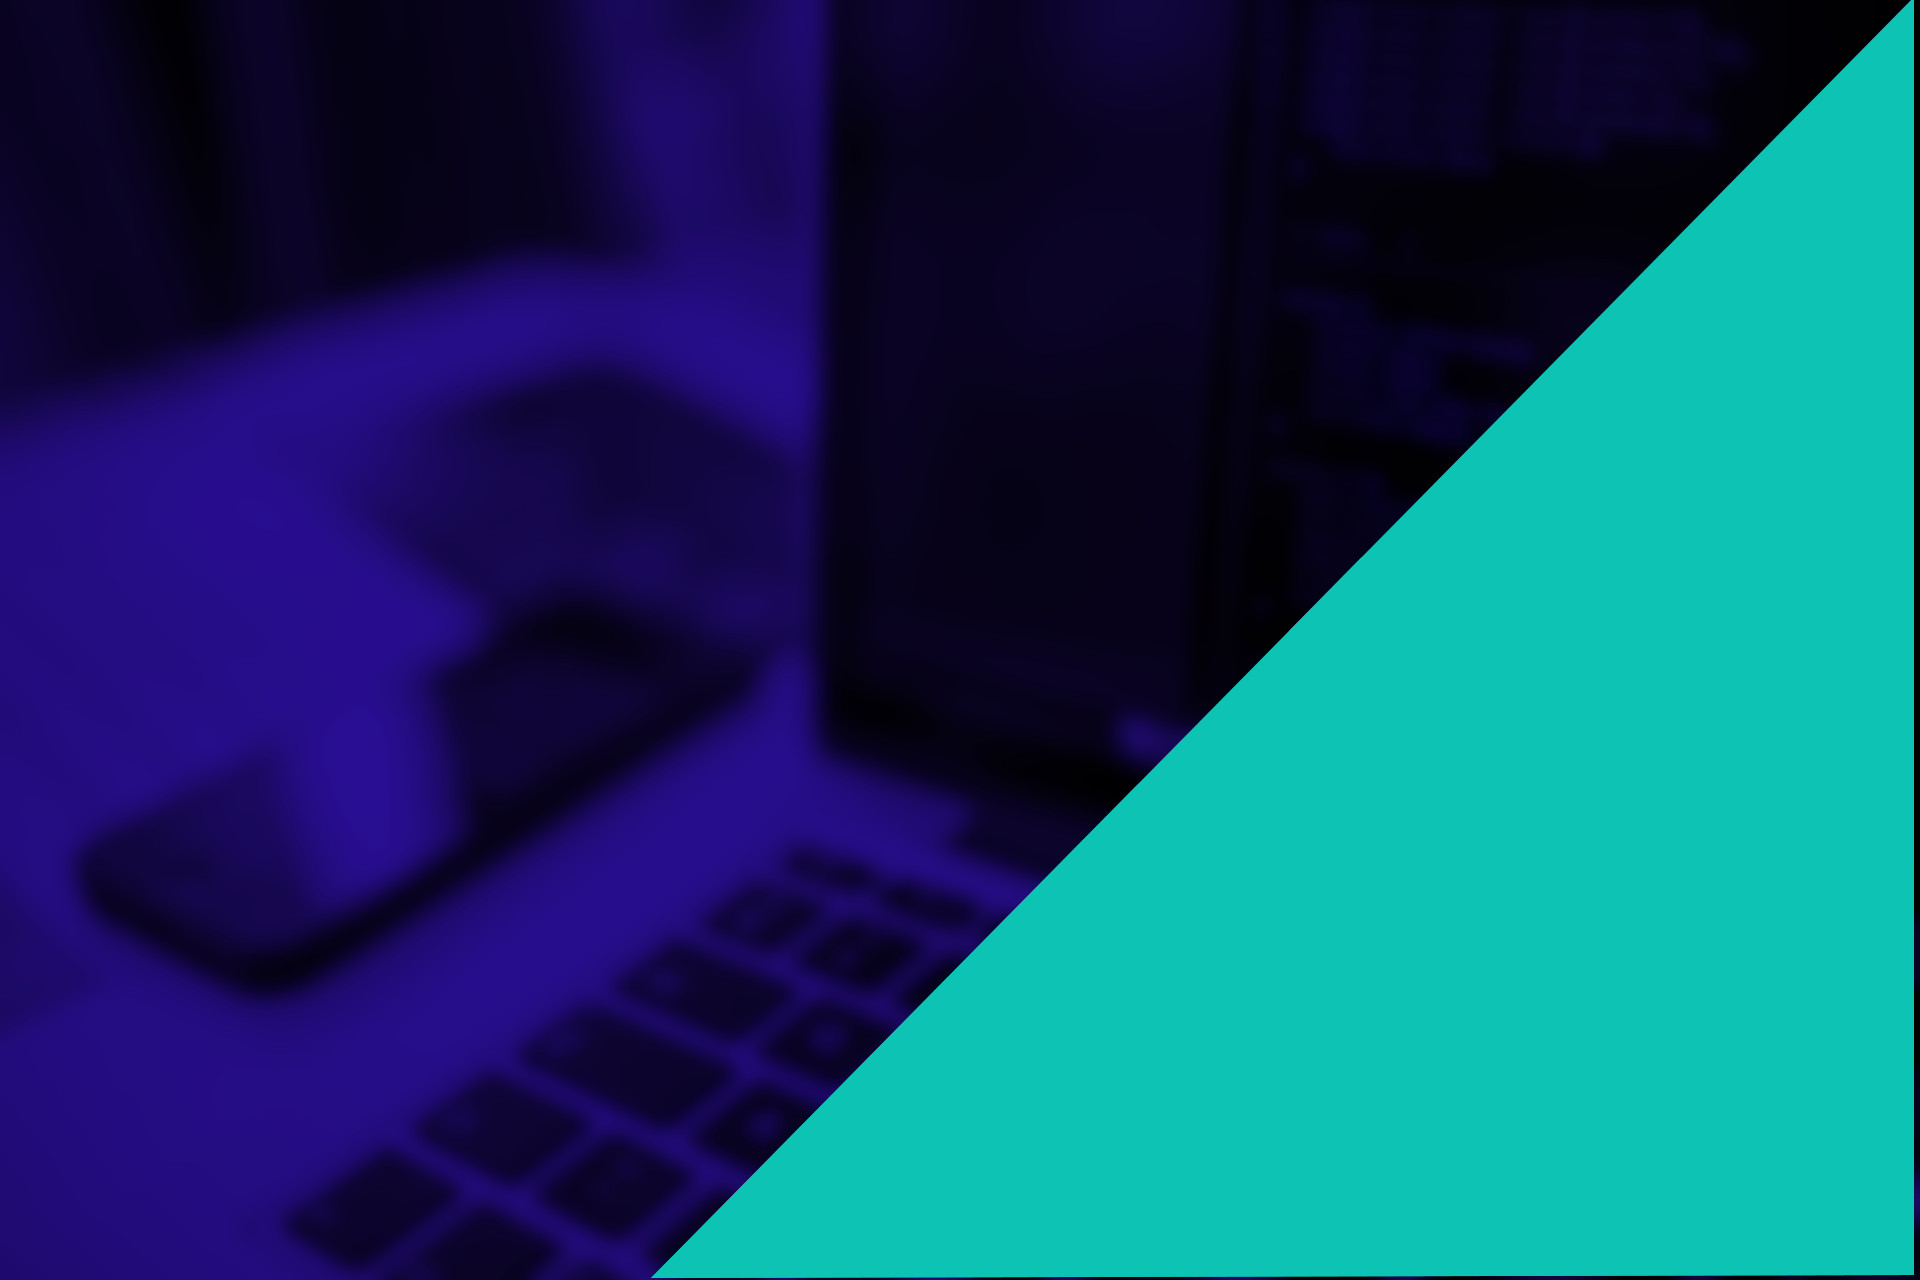
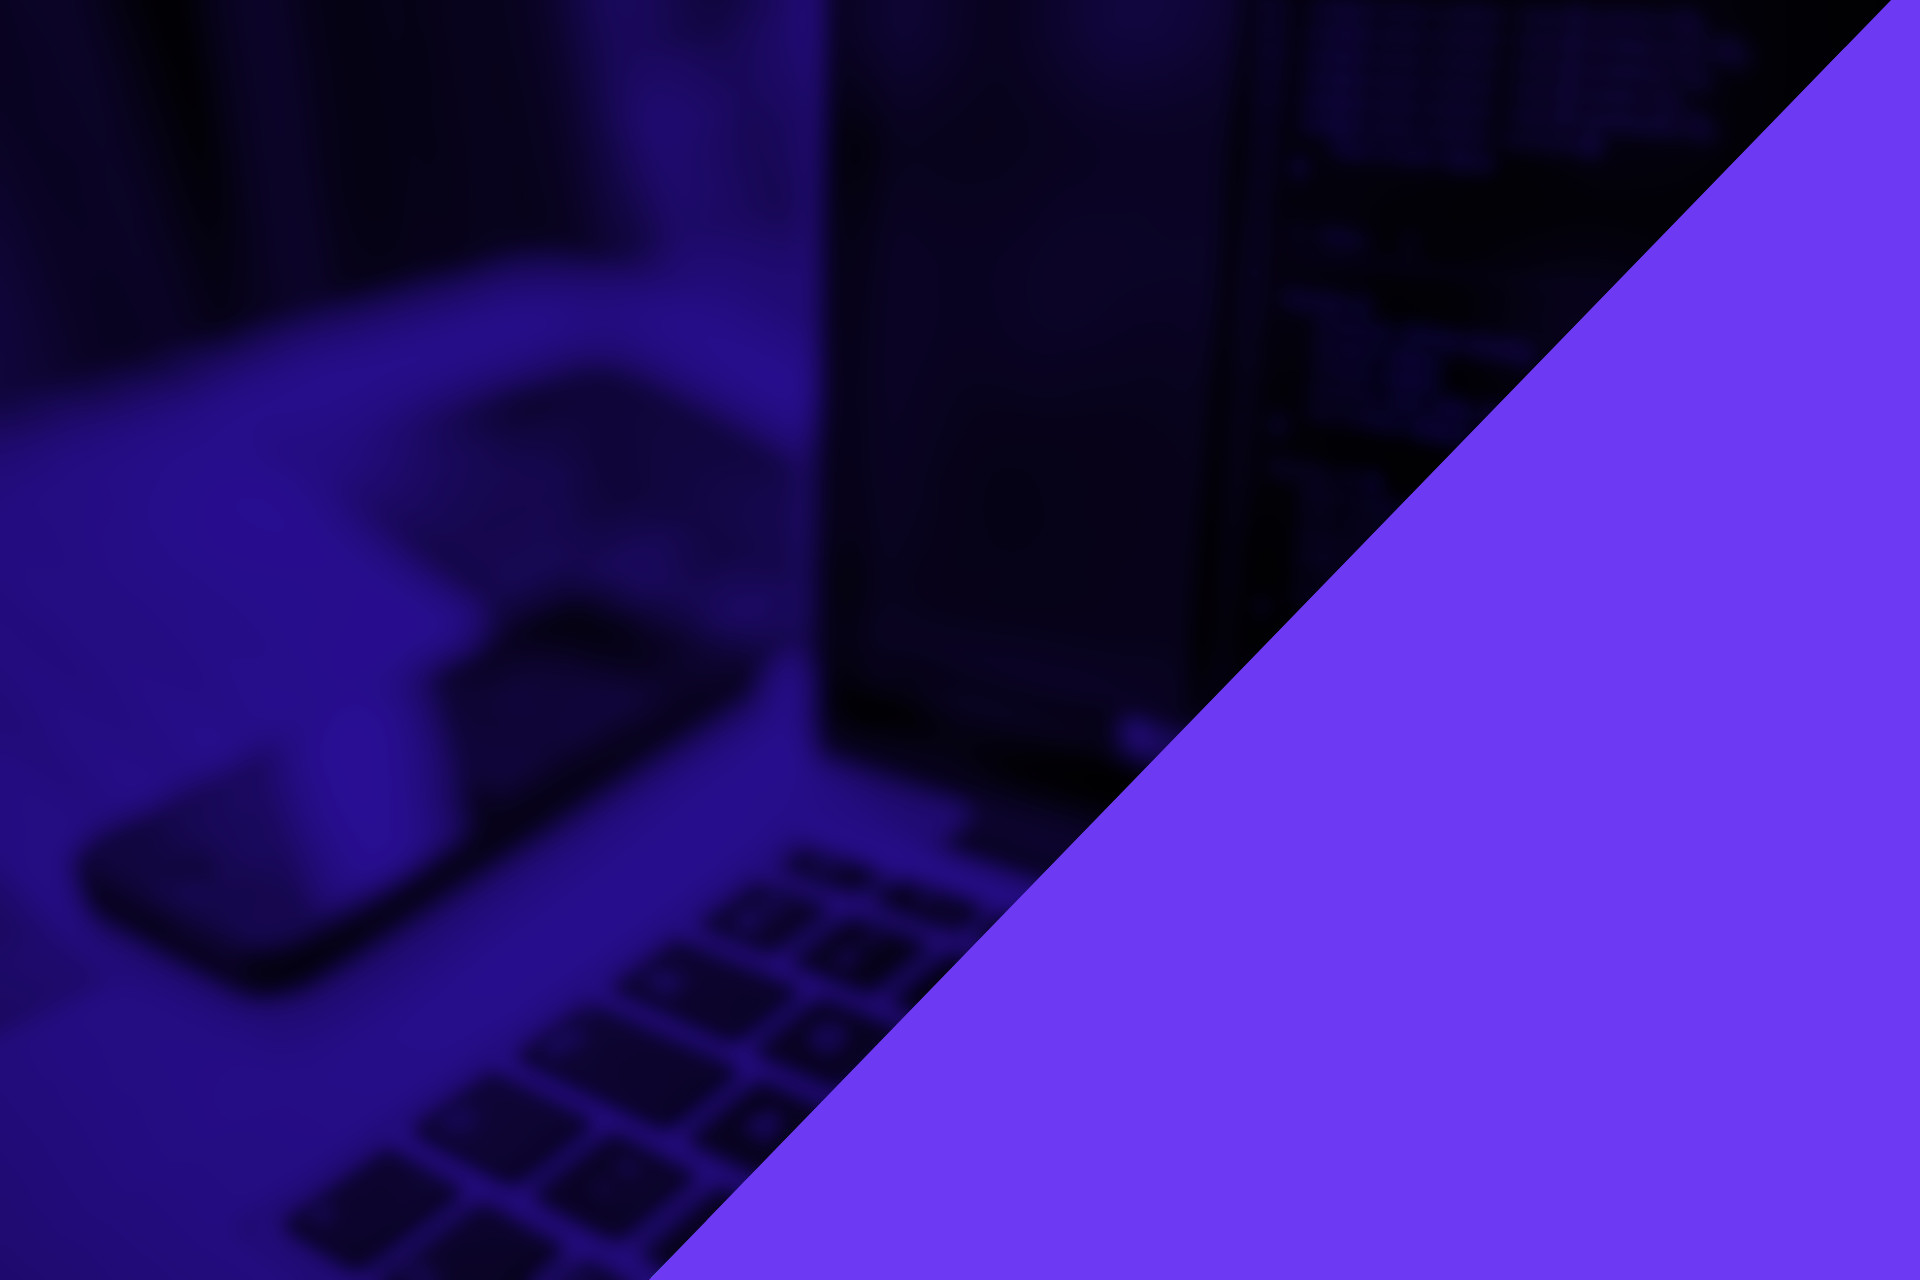
subindo

diff --git a/index.html b/index.html
@@ -8,7 +8,8 @@
     <link rel="stylesheet" href="./css/aos.css">
     <title>LeoBussi</title>
 </head>
-<body>  
+<body>      
+    <div class="content">
             <section class="section-top"> 
                 <div class="logo">
                     <img src="./img/logo.png" alt="">
@@ -26,7 +27,7 @@
                         <p>I am a Big Data student in Agribusiness by Fatec Pompéia,<br>
                             I am a native of the city of Pompeia located in the state  <br>
                                 of São Paulo in Brazil. currently I am 22 years old, I  <br>
-                                dedicate most  of my time to study.
+                                dedicate most  of my time to study. <a href="#">More about me</a>
                         </p>
                     </div>
                 </div>
@@ -48,6 +49,12 @@
                     </div>
                 </div>
             </section> 
+    </div>  
+    <div class="box-linguagem">
+        <h2 class="title" >Technologies</h2>
+
+        quando der tempo eu termino
+    </div>      
 
         <script src="https://unpkg.com/aos@next/dist/aos.js"></script>
         <script src="https://code.jquery.com/jquery-3.5.1.js"></script>

diff --git a/css/styles.css b/css/styles.css
@@ -15,8 +15,11 @@ body{
     background-repeat: no-repeat;
     -webkit-font-smoothing: antialiased;
     color: #fff;
-    background-color: rgb(5, 4, 10);
+    background-color: #0dc3b4;
     height: 100vh;
+    background-attachment: fixed;
+}
+.content{
     display: flex;
     align-items: center;
     justify-content: center;
@@ -57,6 +60,7 @@ body{
                 0px 3px 1px -2px rgba(0, 0, 0, 0.12), 
                 0px 1px 5px 0px rgba(0, 0, 0, 0.2);
     margin-bottom: 50px;
+
 }
 
 .conteiner .links {
@@ -109,6 +113,30 @@ body{
     font-size: 14px;
     
 }
+.about p a{
+    color: #0dc3b4;  
+}
+.about p a:hover{
+   color: blueviolet;
+}
+.box-linguagem{
+    width: 100%;
+    margin-top: 70px;
+    height: 20vh;
+    background-color: #6d39f2;
+}
+.box-linguagem .title{
+    text-align: center;
+    padding: 30px 0;
+}
+
+
+
+
+
+
+
+
 @media screen and (max-width: 800px) {
     .form {
         width: 100%;
